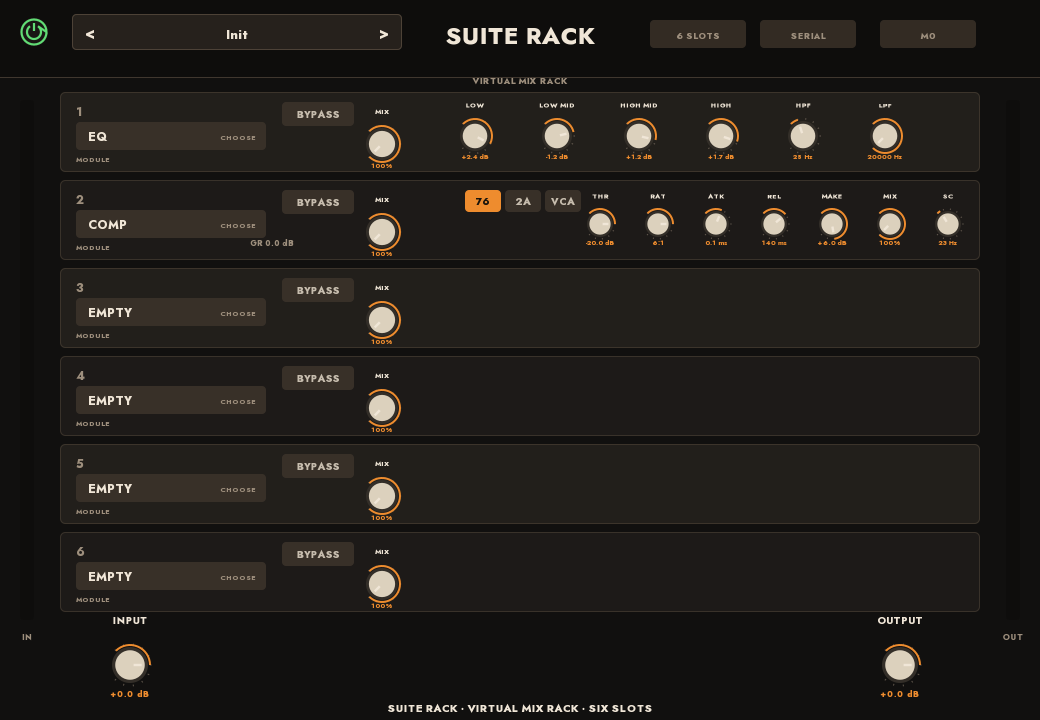
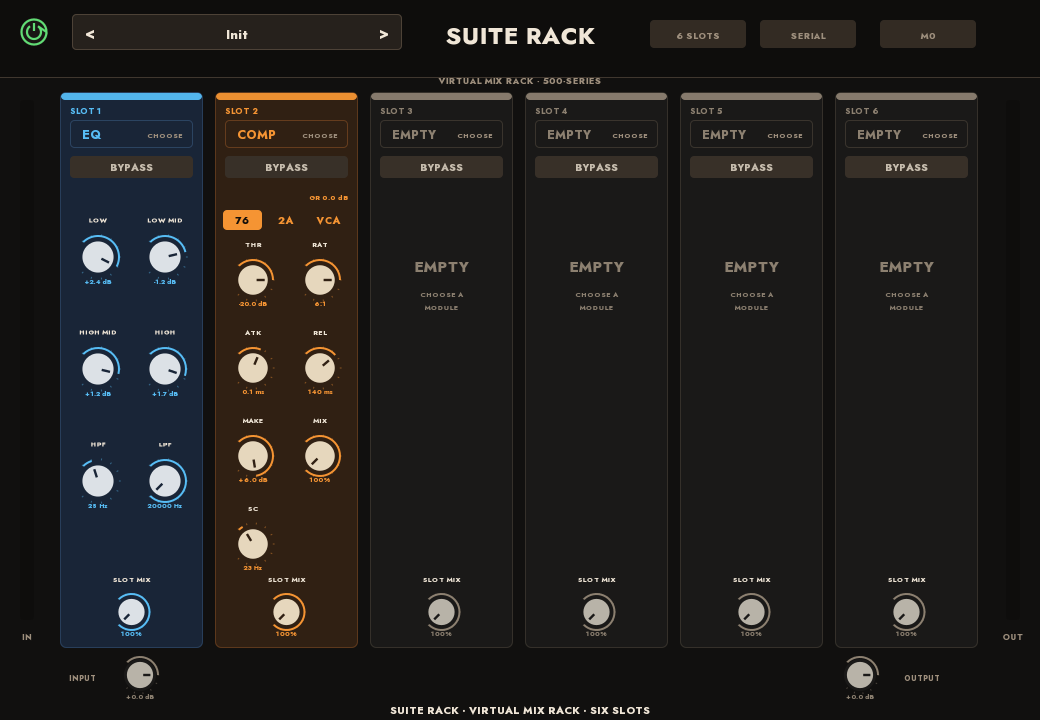
Suite Rack M0 — vertical 500-series modules and per-module colours

diff --git a/src/ui/panel.cpp b/src/ui/panel.cpp
@@ -39,6 +39,22 @@ double clamp01(double x) { return std::clamp(x, 0.0, 1.0); }
 const char* moduleName(int type) {
   return type == 1 ? "EQ" : (type == 2 ? "COMP" : "EMPTY");
 }
+
+struct ModuleStyle {
+  Rgb body;
+  Rgb edge;
+  Rgb accent;
+  Rgb knob;
+};
+
+ModuleStyle styleFor(int type) {
+  if (type == 1) return {{0.10, 0.145, 0.215}, {0.18, 0.28, 0.40},
+                         {0.34, 0.74, 0.96}, {0.86, 0.88, 0.90}};
+  if (type == 2) return {{0.19, 0.125, 0.075}, {0.42, 0.25, 0.12},
+                         {0.96, 0.58, 0.20}, {0.90, 0.84, 0.74}};
+  return {{0.105, 0.10, 0.095}, {0.24, 0.22, 0.19},
+          {0.55, 0.50, 0.44}, {0.72, 0.70, 0.66}};
+}
 } // namespace
 
 Panel::Panel() = default;
@@ -96,42 +112,59 @@ void Panel::layout(const Shared& shared, const PanelState& state) {
   widgets_.push_back(p);
 
   auto knob = [&](uint32_t param, double x, double y, double r,
-                  const char* label, bool below = false, int steps = 0,
-                  std::vector<const char*> scale = {}, bool compact = false) {
+                  const char* label, int styleSlot = -1, bool compact = true) {
     Widget k{};
     k.kind = Kind::Knob; k.param = param; k.x = x; k.y = y; k.r = r;
-    k.label = label; k.labelBelow = below; k.steps = steps;
-    k.scale = std::move(scale); k.compact = compact;
+    k.label = label; k.labelBelow = false; k.compact = compact;
+    k.styleSlot = styleSlot;
+    k.styleType = styleSlot >= 0
+                      ? static_cast<int>(shared.get(
+                            slotParam(styleSlot, kSlotOffsetType)) + 0.5)
+                      : -1;
     widgets_.push_back(k);
   };
 
-  knob(P_INPUT, 130, 665, 18, "INPUT");
-  knob(P_OUTPUT, 900, 665, 18, "OUTPUT");
+  knob(P_INPUT, 140, 675, 16, "", -1, true);
+  knob(P_OUTPUT, 860, 675, 16, "", -1, true);
 
+  const double colW = 143.0;
+  const double gap = 12.0;
   for (int i = 0; i < kSlotCount; ++i) {
-    const double y = 92.0 + i * 88.0;
+    const double x = 60.0 + i * (colW + gap);
+    const double y = 92.0;
     Widget name{};
     name.kind = Kind::ModuleName;
     name.param = static_cast<uint32_t>(i);
     name.value = i;
-    name.x = 76.0; name.y = y + 30.0; name.w = 190.0; name.h = 28.0;
+    name.x = x + 10; name.y = y + 28; name.w = colW - 20; name.h = 28;
+    name.styleSlot = i;
+    name.styleType = static_cast<int>(shared.get(slotParam(i, kSlotOffsetType)) + 0.5);
     widgets_.push_back(name);
 
     Widget byp{};
     byp.kind = Kind::Pill;
     byp.param = slotParam(i, kSlotOffsetBypass);
-    byp.x = 282.0; byp.y = y + 10.0; byp.w = 72.0; byp.h = 24.0;
+    byp.x = x + 10; byp.y = y + 64; byp.w = colW - 20; byp.h = 22;
     byp.label = "BYPASS";
+    byp.styleSlot = i;
+    byp.styleType = static_cast<int>(shared.get(slotParam(i, kSlotOffsetType)) + 0.5);
     widgets_.push_back(byp);
 
-    knob(slotParam(i, kSlotOffsetMix), 382.0, y + 52.0, 16.0, "MIX", false, 0, {}, true);
+    knob(slotParam(i, kSlotOffsetMix), x + colW * 0.5, y + 520, 16,
+         "SLOT MIX", i);
 
     const int type = static_cast<int>(shared.get(slotParam(i, kSlotOffsetType)) + 0.5);
+    for (auto& w : widgets_) {
+      if (w.styleSlot == i) w.styleType = type;
+    }
+    const double cx1 = x + 38, cx2 = x + 105;
     if (type == 1) {
-      static const char* labels[6] = {"LOW", "LOW MID", "HIGH MID", "HIGH", "HPF", "LPF"};
+      static const char* labels[6] = {"LOW", "LOW MID", "HIGH MID", "HIGH",
+                                      "HPF", "LPF"};
       for (int k = 0; k < 6; ++k) {
-        knob(slotParam(i, kSlotOffsetEqLow + k), 475.0 + k * 82.0,
-             y + 44.0, 15.0, labels[k], false, 0, {}, true);
+        const double kx = (k & 1) ? cx2 : cx1;
+        const double ky = y + 165.0 + (k / 2) * 112.0;
+        knob(slotParam(i, kSlotOffsetEqLow + k), kx, ky, 19, labels[k], i);
       }
     } else if (type == 2) {
       for (int m = 0; m < 3; ++m) {
@@ -139,16 +172,21 @@ void Panel::layout(const Shared& shared, const PanelState& state) {
         b.kind = Kind::ModelButton;
         b.param = slotParam(i, kSlotOffsetCompModel);
         b.value = m;
-        b.x = 465.0 + m * 40.0;
-        b.y = y + 10.0;
-        b.w = 36.0; b.h = 22.0;
+        b.x = x + 8 + m * 43.0;
+        b.y = y + 118.0;
+        b.w = 39.0; b.h = 20.0;
         b.label = kCompModelLabels[m];
+        b.styleSlot = i;
+        b.styleType = type;
         widgets_.push_back(b);
       }
-      static const char* labels[7] = {"THR", "RAT", "ATK", "REL", "MAKE", "MIX", "SC"};
+      static const char* labels[7] = {"THR", "RAT", "ATK", "REL", "MAKE",
+                                      "MIX", "SC"};
       for (int k = 0; k < 7; ++k) {
-        knob(slotParam(i, kSlotOffsetCompThreshold + k), 600.0 + k * 58.0,
-             y + 44.0, 13.0, labels[k], false, 0, {}, true);
+        const double kx = (k & 1) ? cx2 : cx1;
+        const double ky = y + 188.0 + (k / 2) * 88.0;
+        knob(slotParam(i, kSlotOffsetCompThreshold + k), kx, ky, 18,
+             labels[k], i);
       }
     }
   }
@@ -218,29 +256,40 @@ void Panel::drawHeader(cairo_t* cr, const Shared& shared, const PanelState& stat
 
 void Panel::drawRack(cairo_t* cr, const Shared& shared,
                      const PanelState& state) const {
+  const double colW = 143.0, gap = 12.0, y = 92.0, h = 556.0;
   for (int i = 0; i < kSlotCount; ++i) {
-    const double y = 92.0 + i * 88.0;
+    const double x = 60.0 + i * (colW + gap);
     const int type = static_cast<int>(shared.get(slotParam(i, kSlotOffsetType)) + 0.5);
-    const bool bypass = shared.get(slotParam(i, kSlotOffsetBypass)) > 0.5;
-    roundRect(cr, 60, y, 920, 80, 5);
-    setRgb(cr, (i & 1) ? Rgb{0.115, 0.105, 0.095} : Rgb{0.135, 0.122, 0.108});
-    cairo_fill(cr);
-    cairo_set_line_width(cr, 1.0);
-    setRgb(cr, state.browserSlot == i ? kAccent : kEdge,
-           state.browserSlot == i ? 0.9 : 0.5);
-    roundRect(cr, 60.5, y + 0.5, 919, 79, 5); cairo_stroke(cr);
-
+    const ModuleStyle st = styleFor(type);
+    roundRect(cr, x, y, colW, h, 6);
+    setRgb(cr, st.body); cairo_fill(cr);
+    cairo_set_line_width(cr, state.browserSlot == i ? 2.0 : 1.0);
+    setRgb(cr, state.browserSlot == i ? st.accent : st.edge,
+           state.browserSlot == i ? 1.0 : 0.75);
+    roundRect(cr, x + 0.5, y + 0.5, colW - 1, h - 1, 6); cairo_stroke(cr);
+    // 500-series colour cap.
+    roundRect(cr, x + 1, y + 1, colW - 2, 7, 4);
+    setRgb(cr, st.accent, 0.95); cairo_fill(cr);
     char num[16];
-    std::snprintf(num, sizeof(num), "%d", i + 1);
-    text(cr, num, 76, y + 24, 12, 0, kDim.r, kDim.g, kDim.b);
+    std::snprintf(num, sizeof(num), "SLOT %d", i + 1);
+    text(cr, num, x + 10, y + 22, 8, 0, st.accent.r, st.accent.g, st.accent.b);
     if (type == 2) {
       char gr[32];
       std::snprintf(gr, sizeof(gr), "GR %.1f dB", state.slotGrDb[i]);
-      text(cr, gr, 250, y + 66, 8, 0, kDim.r, kDim.g, kDim.b);
+      text(cr, gr, x + colW - 10, y + 108, 7, 2, st.accent.r, st.accent.g,
+           st.accent.b);
     }
-    text(cr, "MODULE", 76, y + 70, 7, 0, kDim.r, kDim.g, kDim.b);
+    if (type == 0) {
+      text(cr, "EMPTY", x + colW * 0.5, y + 180, 15, 1, st.accent.r,
+           st.accent.g, st.accent.b);
+      text(cr, "CHOOSE A", x + colW * 0.5, y + 205, 7, 1, st.accent.r,
+           st.accent.g, st.accent.b);
+      text(cr, "MODULE", x + colW * 0.5, y + 218, 7, 1, st.accent.r,
+           st.accent.g, st.accent.b);
+    }
   }
-  text(cr, "VIRTUAL MIX RACK", 520, 84, 9, 1, kDim.r, kDim.g, kDim.b);
+  text(cr, "VIRTUAL MIX RACK · 500-SERIES", 520, 84, 9, 1, kDim.r, kDim.g,
+       kDim.b);
 }
 
 void Panel::drawBrowser(cairo_t* cr, const Shared& shared,
@@ -279,12 +328,18 @@ void Panel::draw(cairo_t* cr, Shared& shared, const PanelState& state) {
   drawLevelMeter(cr, 1006, 100, 14, 520, state.outLevelL, state.outLevelR);
   text(cr, "IN", 27, 640, 8, 1, kDim.r, kDim.g, kDim.b);
   text(cr, "OUT", 1013, 640, 8, 1, kDim.r, kDim.g, kDim.b);
-  text(cr, "SUITE RACK · VIRTUAL MIX RACK · SIX SLOTS", 520, 712, 11, 1,
+  text(cr, "INPUT", 96, 681, 7.5, 2, kDim.r, kDim.g, kDim.b);
+  text(cr, "OUTPUT", 904, 681, 7.5, 0, kDim.r, kDim.g, kDim.b);
+  text(cr, "SUITE RACK · VIRTUAL MIX RACK · SIX SLOTS", 520, 714, 10.5, 1,
        kText.r, kText.g, kText.b);
 }
 
 void Panel::drawWidget(cairo_t* cr, const Widget& w, const Shared& shared,
                        const PanelState&) const {
+  const int type = w.styleSlot >= 0
+                       ? static_cast<int>(shared.get(slotParam(w.styleSlot, kSlotOffsetType)) + 0.5)
+                       : -1;
+  const ModuleStyle st = styleFor(type);
   switch (w.kind) {
     case Kind::Power: {
       const bool on = shared.get(P_POWER) > 0.5;
@@ -306,9 +361,11 @@ void Panel::drawWidget(cairo_t* cr, const Widget& w, const Shared& shared,
       const int type = static_cast<int>(
           shared.get(slotParam(slot, kSlotOffsetType)) + 0.5);
       roundRect(cr, w.x, w.y, w.w, w.h, 4);
-      setRgb(cr, {0.22, 0.19, 0.16}); cairo_fill(cr);
+      setRgb(cr, st.body); cairo_fill(cr);
+      setRgb(cr, st.edge, 0.9); cairo_set_line_width(cr, 1.0);
+      roundRect(cr, w.x + 0.5, w.y + 0.5, w.w - 1, w.h - 1, 4); cairo_stroke(cr);
       text(cr, moduleName(type), w.x + 12, w.y + w.h * 0.5 + 5, 12, 0,
-           kText.r, kText.g, kText.b);
+           st.accent.r, st.accent.g, st.accent.b);
       text(cr, "CHOOSE", w.x + w.w - 10, w.y + w.h * 0.5 + 4, 7, 2,
            kDim.r, kDim.g, kDim.b);
       break;
@@ -317,30 +374,34 @@ void Panel::drawWidget(cairo_t* cr, const Widget& w, const Shared& shared,
       const bool cancel = w.value < 0;
       const bool current = !cancel &&
           std::fabs(shared.get(w.param) - w.value) < 0.5;
+      const ModuleStyle bst = cancel ? styleFor(0) : styleFor(static_cast<int>(w.value));
       roundRect(cr, w.x, w.y, w.w, w.h, 4);
-      setRgb(cr, cancel ? Rgb{0.22, 0.19, 0.16}
-                        : (current ? kAccent : Rgb{0.28, 0.24, 0.20}));
+      setRgb(cr, current ? bst.accent : bst.body);
       cairo_fill(cr);
+      setRgb(cr, bst.edge, 0.9); cairo_set_line_width(cr, 1.0);
+      roundRect(cr, w.x + 0.5, w.y + 0.5, w.w - 1, w.h - 1, 4); cairo_stroke(cr);
       text(cr, w.label, w.x + w.w * 0.5, w.y + w.h * 0.5 + 5,
            cancel ? 9 : 14, 1,
-           current ? 0.10 : kText.r, current ? 0.08 : kText.g,
-           current ? 0.05 : kText.b);
+           current ? 0.08 : bst.accent.r, current ? 0.06 : bst.accent.g,
+           current ? 0.04 : bst.accent.b);
       break;
     }
     case Kind::ModuleButton: {
       const bool lit = std::fabs(shared.get(w.param) - w.value) < 0.5;
       roundRect(cr, w.x, w.y, w.w, w.h, 4);
-      setRgb(cr, lit ? kAccent : Rgb{0.22, 0.19, 0.16}); cairo_fill(cr);
+      setRgb(cr, lit ? st.accent : st.body); cairo_fill(cr);
       text(cr, w.label, w.x + w.w * 0.5, w.y + w.h * 0.5 + 4, 10, 1,
-           lit ? 0.10 : 0.78, lit ? 0.08 : 0.74, lit ? 0.05 : 0.68);
+           lit ? 0.08 : st.accent.r, lit ? 0.06 : st.accent.g,
+           lit ? 0.04 : st.accent.b);
       break;
     }
     case Kind::ModelButton: {
       const bool lit = std::fabs(shared.get(w.param) - w.value) < 0.5;
       roundRect(cr, w.x, w.y, w.w, w.h, 4);
-      setRgb(cr, lit ? kAccent : Rgb{0.22, 0.19, 0.16}); cairo_fill(cr);
+      setRgb(cr, lit ? st.accent : st.body); cairo_fill(cr);
       text(cr, w.label, w.x + w.w * 0.5, w.y + w.h * 0.5 + 4, 10, 1,
-           lit ? 0.10 : 0.78, lit ? 0.08 : 0.74, lit ? 0.05 : 0.68);
+           lit ? 0.08 : st.accent.r, lit ? 0.06 : st.accent.g,
+           lit ? 0.04 : st.accent.b);
       break;
     }
     case Kind::Pill: {
@@ -363,7 +424,9 @@ void Panel::drawKnob(cairo_t* cr, const Widget& w, double value) const {
   const double span = vmax - s.min;
   const double f = clamp01(span > 0.0 ? (value - s.min) / span : 0.0);
   const double a = knobAngle(f);
-  setRgb(cr, kDim, 0.55);
+  const int knobType = w.styleSlot >= 0 ? w.styleType : -1;
+  const ModuleStyle st = styleFor(knobType);
+  setRgb(cr, st.accent, 0.45);
   cairo_set_line_width(cr, 1.0);
   for (int i = 0; i <= 10; ++i) {
     const double aa = knobAngle(i / 10.0);
@@ -374,14 +437,14 @@ void Panel::drawKnob(cairo_t* cr, const Widget& w, double value) const {
     cairo_stroke(cr);
   }
   cairo_arc(cr, w.x, w.y, w.r, 0, 2 * kPi);
-  setRgb(cr, {0.20, 0.18, 0.16}); cairo_fill(cr);
+  setRgb(cr, st.body); cairo_fill(cr);
   cairo_arc(cr, w.x, w.y, w.r * 0.82, 0, 2 * kPi);
-  setRgb(cr, {0.86, 0.82, 0.74}); cairo_fill(cr);
+  setRgb(cr, st.knob); cairo_fill(cr);
   cairo_set_line_width(cr, 2.0);
-  setRgb(cr, kAccent);
+  setRgb(cr, st.accent);
   cairo_arc(cr, w.x, w.y, w.r + 2, knobAngle(0), a); cairo_stroke(cr);
   cairo_set_line_width(cr, 2.4);
-  setRgb(cr, kText);
+  setRgb(cr, st.body);
   cairo_move_to(cr, w.x + std::cos(a) * w.r * 0.2, w.y + std::sin(a) * w.r * 0.2);
   cairo_line_to(cr, w.x + std::cos(a) * w.r * 0.65, w.y + std::sin(a) * w.r * 0.65);
   cairo_stroke(cr);
@@ -391,7 +454,7 @@ void Panel::drawKnob(cairo_t* cr, const Widget& w, double value) const {
        kText.r, kText.g, kText.b);
   const std::string val = formatParamValue(Shared{}, w.param, value);
   text(cr, val.c_str(), w.x, w.y + w.r + (w.compact ? 8.0 : 14.0),
-       w.compact ? 6.5 : 8.5, 1, kAccent.r, kAccent.g, kAccent.b);
+       w.compact ? 6.5 : 8.5, 1, st.accent.r, st.accent.g, st.accent.b);
 }
 
 void Panel::drawPill(cairo_t* cr, const Widget& w, bool on, const char* label) const {

diff --git a/test/test_panel.cpp b/test/test_panel.cpp
@@ -24,7 +24,7 @@ int main() {
   check(std::fabs(s.get(P_SLOT0_TYPE) - 1.0) < 1e-9, "slot 1 starts as EQ");
   check(std::fabs(s.get(P_SLOT1_TYPE) - 2.0) < 1e-9, "slot 2 starts as Comp");
   // Click the second row's module name to open the module browser.
-  panel.pointerDown(s, state, 100, 224, false);
+  panel.pointerDown(s, state, 250, 134, false);
   panel.pointerUp();
   check(state.selectedSlot == 1 && state.browserSlot == 1,
         "clicking the second module name opens its browser");
@@ -33,7 +33,7 @@ int main() {
   panel.pointerUp();
   check(s.get(P_SLOT1_TYPE) == 0.0, "Off module button clears the slot");
   panel.draw(cr, s, state);
-  panel.pointerDown(s, state, 100, 224, false);
+  panel.pointerDown(s, state, 250, 134, false);
   panel.pointerUp();
   panel.draw(cr, s, state);
   panel.pointerDown(s, state, 600, 314, false);
@@ -41,7 +41,7 @@ int main() {
   check(s.get(P_SLOT1_TYPE) == 1.0, "EQ module button selects EQ");
   // Bypass pill for slot 2.
   panel.draw(cr, s, state);
-  panel.pointerDown(s, state, 318, 202, false);
+  panel.pointerDown(s, state, 280, 165, false);
   panel.pointerUp();
   check(s.get(P_SLOT1_BYPASS) == 1.0, "bypass pill toggles the selected slot");
   // Global power.

diff --git a/src/ui/panel.hpp b/src/ui/panel.hpp
@@ -83,6 +83,8 @@ private:
     std::vector<const char*> scale;
     bool labelBelow = false;
     bool compact = false;
+    int styleSlot = -1;
+    int styleType = -1;
   };
 
   void layout(const Shared& shared, const PanelState& state);

diff --git a/CHANGELOG.md b/CHANGELOG.md
@@ -5,7 +5,7 @@
 - Six-slot virtual mix rack scaffold.
 - Comp Suite-family header with power, preset bar, centered title and utility
   pills.
-- Mix Locker-style stacked module rows with inline EQ/Comp controls.
+- Vertical 500-series-style module columns with per-module background and knob colours.
 - Module browser with Off / EQ / Comp.
 - Slot bypass, slot mix, per-slot compressor GR.
 - EQ and Comp DSP modules with serial engine tests and panel tests.

diff --git a/README.md b/README.md
@@ -16,7 +16,7 @@ Modules are chosen from an in-panel browser.
 
 - 1040×720 panel with the Comp Suite-family header: power, preset bar, centered
   title, utility pills.
-- Six stacked module rows, Mix Locker-style, instead of large cards.
+- Six vertical 500-series-style module columns, each with its own background and knob colour.
 - Per-row bypass and slot mix.
 - Module browser: **Off / EQ / Comp**.
 - EQ module: four bands + HPF/LPF.
